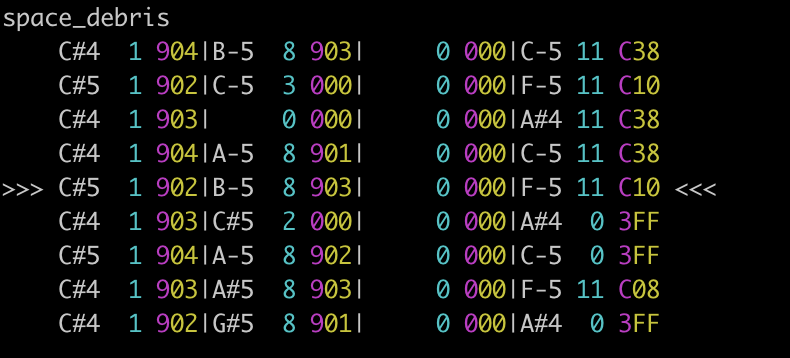
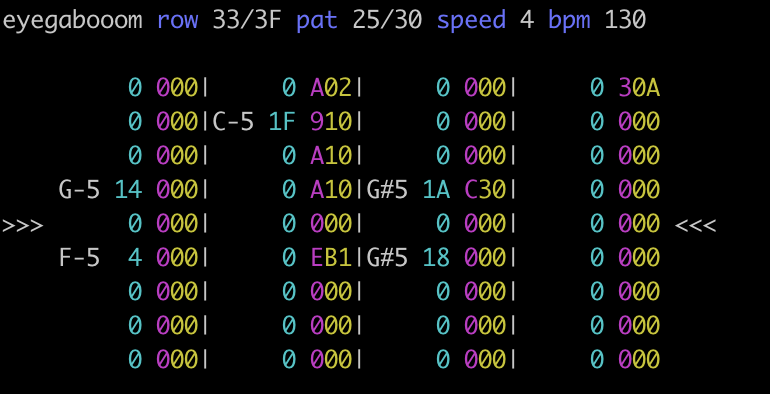
Show a little more info in modplay
Slightly improved handling of titles in MOD file.

diff --git a/cmd/modplay/main.go b/cmd/modplay/main.go
@@ -86,14 +86,25 @@ func main() {
 	// Hide the cursor
 	fmt.Print(hideCursor)
 
-	fmt.Println(song.Title)
-
 	white := color.New(color.FgWhite).SprintFunc()
 	cyan := color.New(color.FgCyan).SprintfFunc()
 	magenta := color.New(color.FgMagenta).SprintfFunc()
 	yellow := color.New(color.FgYellow).SprintfFunc()
+	blue := color.New(color.FgHiBlue).SprintFunc()
 
-	// Print out preceeding 4 lines, current line and upcoming 4 lines
+	// Print out some player preceeding 4 rows, current row and upcoming 4 rows
+	// <title> row 1A/3F pat 0A/73 speed 6 bpm 125
+	//
+	//          0 000|     0 C00|     0 000|     0 000
+	//          0 000|     0 000|     0 000|     0 000
+	//     C#5  F 000|G-5 14 000|     0 000|     0 000
+	//          0 000|     0 000|     0 000|     0 000
+	// >>>      0 000|     0 000|     0 000|     0 000 <<<
+	//          0 000|     0 000|     0 000|     0 000
+	//          0 000|G-5 14 C0B|     0 000|     0 000
+	//          0 000|     0 000|     0 000|     0 000
+	//     C#5  F 000|     0 000|     0 000|     0 000
+
 	var lastPos modplayer.PlayerPosition
 	for player.IsPlaying() {
 		pos := player.Position()
@@ -101,6 +112,11 @@ func main() {
 		if lastPos.Notes != nil && lastPos.Order == pos.Order && lastPos.Row == pos.Row {
 			continue
 		}
+
+		if len(song.Title) > 0 {
+			fmt.Print(song.Title + " ")
+		}
+		fmt.Printf("%s %02X/3F %s %02X/%02X %s %d %s %d\n\n", blue("row"), pos.Row, blue("pat"), pos.Order, len(song.Orders), blue("speed"), player.Speed, blue("bpm"), player.Tempo)
 
 		for i := -4; i <= 4; i++ {
 			nd := player.NoteDataFor(pos.Order, pos.Row+i)
@@ -133,7 +149,7 @@ func main() {
 			}
 			fmt.Println()
 		}
-		fmt.Print(escape + "9F") // move cursor to beginning of line 9 above
+		fmt.Print(escape + "11F") // move cursor to beginning of line 9 above
 	}
 
 	// Show the cursor

diff --git a/player.go b/player.go
@@ -5,6 +5,7 @@ import (
 	"encoding/binary"
 	"errors"
 	"fmt"
+	"strings"
 )
 
 const (
@@ -743,7 +744,7 @@ func NewSongFromBytes(songBytes []byte) (*Song, error) {
 	buf := bytes.NewReader(songBytes)
 	y := make([]byte, 20)
 	buf.Read(y)
-	song.Title = string(y)
+	song.Title = strings.TrimRight(string(y), "\x00")
 
 	// Read sample information (sample data is read later)
 	for i := 0; i < 31; i++ {
